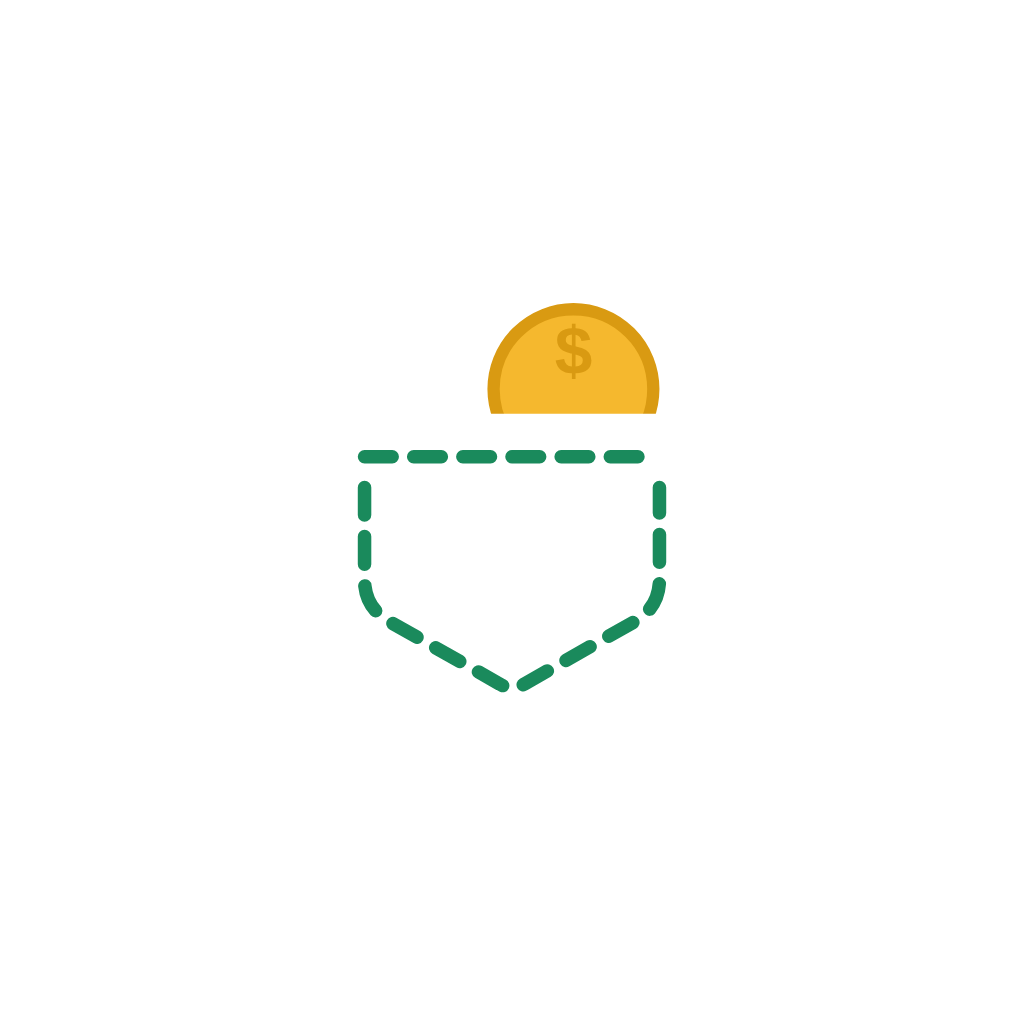
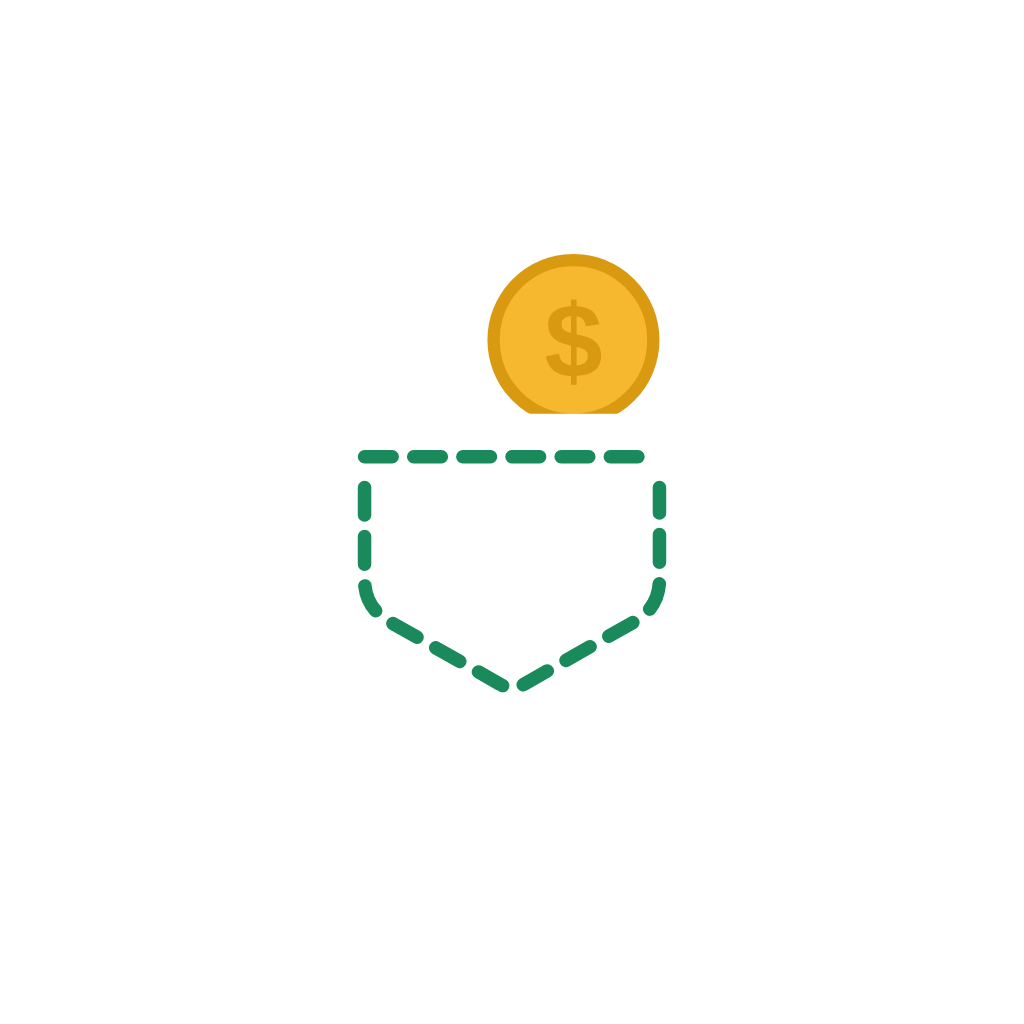
App: cifrão maior e centralizado na moeda do ícone
A moeda sobe e aparece quase inteira atrás do bolso, com o cifrão maior
no meio dela (ícones, splash e abertura animada).

Claude-Session: https://claude.ai/code/session_01BN2ESG3kmCRLfmVBh9Atqc

Changed region(s): [[0.4688, 0.25, 0.6562, 0.4062]]

diff --git a/mobile/src/lib/marca.js b/mobile/src/lib/marca.js
@@ -5,8 +5,10 @@ export const MARCA = {
   verdeEscuro: "#0f5c3d",
   moeda: "#f5b82e",
   moedaBorda: "#d99a12",
-  // Moeda atrás do bolso, com a metade de cima aparecendo
-  moedaCentro: { x: 60, y: 30, raio: 13 },
+  // Moeda atrás do bolso, quase inteira à mostra
+  moedaCentro: { x: 60, y: 22, raio: 13 },
+  // Cifrão no meio da moeda (y é a linha de base do texto, por isso fica abaixo do centro)
+  cifrao: { tamanho: 17, y: 28 },
   bolso: "M20 34 H80 V62 Q80 69 74 72.5 L54.5 83.5 Q50 86 45.5 83.5 L26 72.5 Q20 69 20 62 Z",
   // Costura: o contorno de dentro e a bainha de cima, tracejados
   costura: "M26 46 V61 Q26 65.5 30 67.8 L48 78 Q50 79.2 52 78 L70 67.8 Q74 65.5 74 61 V46",

diff --git a/mobile/src/componentes/abertura.js b/mobile/src/componentes/abertura.js
@@ -18,7 +18,7 @@ function Moeda() {
     <Svg width={TAMANHO} height={TAMANHO} viewBox="0 0 100 100">
       <G transform={AJUSTE}>
         <Circle cx={x} cy={y} r={raio} fill={MARCA.moeda} stroke={MARCA.moedaBorda} strokeWidth={2} />
-        <TextoSvg x={x} y={y - 2.5} fontSize={11} fontWeight="700" fill={MARCA.moedaBorda} textAnchor="middle" fontFamily="sans-serif">
+        <TextoSvg x={x} y={MARCA.cifrao.y} fontSize={MARCA.cifrao.tamanho} fontWeight="700" fill={MARCA.moedaBorda} textAnchor="middle" fontFamily="sans-serif">
           $
         </TextoSvg>
       </G>
